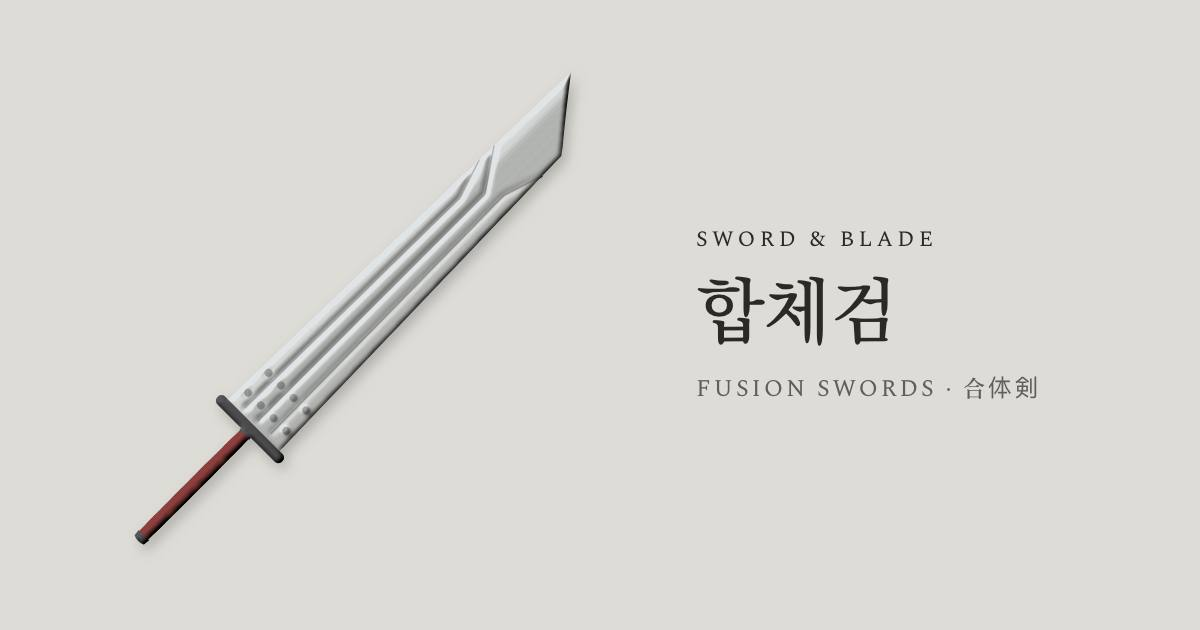
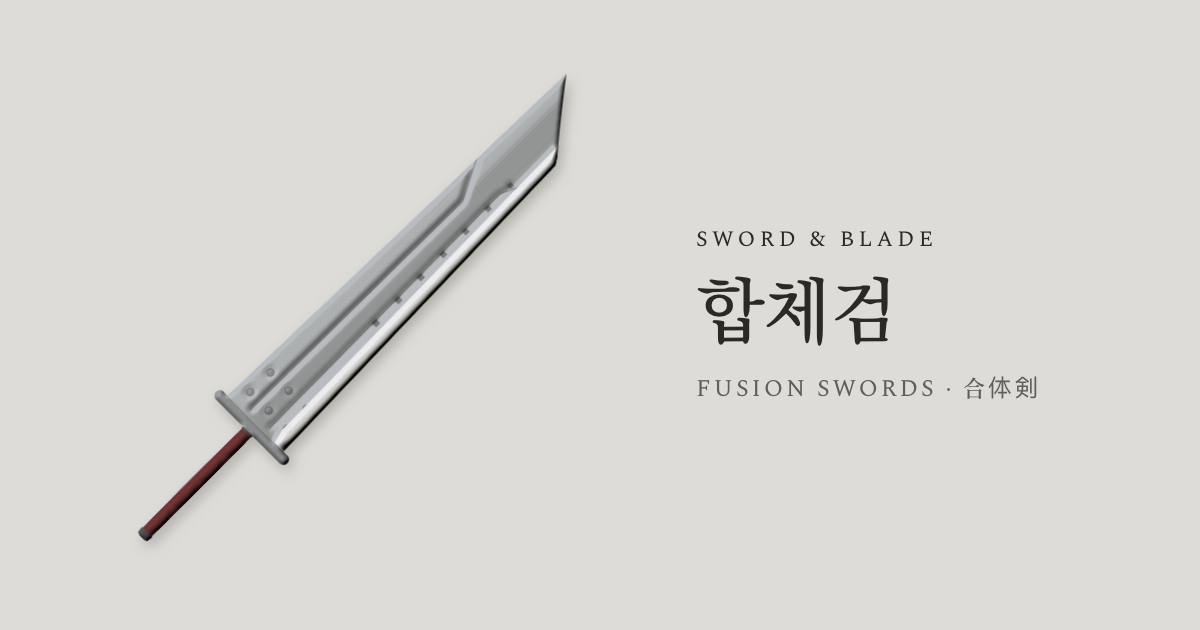
feat: 합체검을 구조도의 다 합친 모습대로, 렌더러 날 띠·이음매 홈 1.11.0 (#53)
할로우 블레이드의 밝은 날 띠, 백 블레이드 이음매의 네모 홈, 사이드 블레이드 판의
이음선·볼트, 볼트 박은 네모 코등이. 렌더러 edgeBand·notches. 시드 버전 19.

diff --git a/packages/sword-art/src/SwordRelief.tsx b/packages/sword-art/src/SwordRelief.tsx
@@ -280,6 +280,8 @@ function Blade({
         {blade.segments ? <Segments art={art} layer={layer} /> : null}
         {blade.links ? <Links art={art} layer={layer} /> : null}
         {blade.holes ? <Holes art={art} layer={layer} /> : null}
+        {blade.edgeBand ? <EdgeBand art={art} layer={layer} /> : null}
+        {blade.notches ? <Notches art={art} layer={layer} /> : null}
 
         {blade.inscription === 'stars' ? <Stars art={art} layer={layer} /> : null}
         {blade.inscription === 'runes' ? <Runes art={art} layer={layer} /> : null}
@@ -459,6 +461,39 @@ const EMBLEMS: Record<NonNullable<NonNullable<SwordArt['blade']['medallion']>['e
   cross: 'M-0.18 -0.85 H0.18 V-0.18 H0.85 V0.18 H0.18 V0.85 H-0.18 V0.18 H-0.85 V-0.18 H-0.18 Z',
   star: 'M0 -0.9 L0.21 -0.29 L0.86 -0.28 L0.34 0.11 L0.53 0.73 L0 0.36 L-0.53 0.73 L-0.34 0.11 L-0.86 -0.28 L-0.21 -0.29 Z',
 };
+
+/** 날 띠: 날 쪽 가장자리를 따라 밝은 띠를 덧댑니다. 칼날 외곽선으로 잘리므로 칼끝 모양을 그대로 따릅니다. */
+function EdgeBand({ art, layer }: { art: SwordArt; layer: Layer }) {
+  const band = art.blade.edgeBand;
+  if (!band) return null;
+  const width = Math.min(0.5, Math.max(0.05, band.width));
+  return (
+    <path
+      d={pointsToPath(bladeStrip(art, 0, 1, 1 - width / 2, width))}
+      fill={layer === 'height' ? H.top : band.color}
+      fillOpacity={layer === 'height' ? 1 : 0.9}
+    />
+  );
+}
+
+/** 이음매 홈: 칼날 판 이음매를 따라 밑동 3할부터 8할 앞까지 네모 홈을 고르게 팝니다. */
+function Notches({ art, layer }: { art: SwordArt; layer: Layer }) {
+  const notches = art.blade.notches;
+  if (!notches) return null;
+  const count = Math.min(12, Math.max(1, Math.round(notches.count)));
+  const at = Math.min(1, Math.max(0, notches.at ?? 0.72));
+  const end = Math.min(0.78, bladeTipStart(art) - 0.04);
+  return (
+    <g fill={layer === 'height' ? H.low : '#00000070'}>
+      {Array.from({ length: count }, (_, index) => {
+        const t = 0.3 + ((end - 0.3) * (index + 0.5)) / count;
+        const p = bladePoint(art, t, at);
+        const size = bladeWidthAt(art, t) * 0.085;
+        return <rect key={index} x={p.x - size / 2} y={p.y - size / 2} width={size} height={size} />;
+      })}
+    </g>
+  );
+}
 
 /** 열쇠 이빨: 큰 칼날과 같은 칠로, 칼끝 날 쪽에 붙입니다. */
 function KeyBit({ art, fill, opacity }: { art: SwordArt; fill: string; opacity: number }) {

diff --git a/packages/mocks/src/catalog/fiction.ts b/packages/mocks/src/catalog/fiction.ts
@@ -49,8 +49,8 @@ export const FICTION_ENTRIES: CatalogEntry[] = [
       'Cloud’s greatsword made of six blades that lock together into one.',
     ],
     description: [
-      '메인 블레이드에 할로우 블레이드, 백 블레이드 두 자루, 사이드 블레이드 두 자루를 맞물린 최종 형태를 칼날 판의 이음선과 볼트로 새기고, 메인 블레이드의 붉은 긴 손잡이와 큰 코등이를 달았습니다. 실제로 나뉘지는 않습니다.',
-      'The final form—the main blade locked together with the hollow blade, two back blades and two side blades—is carved as plate seams and bolts, with the main blade’s long red grip and large guard. It does not actually come apart.',
+      '문서 구조도의 다 합친 모습(1+2+3·4+5·6번 검)대로, 칼끝을 비스듬히 자른 넓은 사다리꼴 칼날에 할로우 블레이드의 밝은 날 띠, 백 블레이드 이음매의 네모 홈, 사이드 블레이드 판의 이음선과 볼트를 새기고, 볼트 박은 네모 코등이와 메인 블레이드의 붉은 긴 손잡이를 달았습니다. 실제로 나뉘지는 않습니다.',
+      'Following the fully assembled form in the structure diagram (blades 1+2+3·4+5·6): a broad trapezoid blade with an angled tip, carrying the hollow blade’s bright edge band, square notches along the back blades’ seam and the side blades’ plate seams and bolts, with a bolted rectangular guard and the main blade’s long red grip. It does not actually come apart.',
     ],
     story: [
       '제작',
@@ -70,9 +70,19 @@ export const FICTION_ENTRIES: CatalogEntry[] = [
     specs: [1300, 1760, 5200],
     price: 9_500_000,
     art: {
-      blade: { length: 1300, width: 200, curve: 0, edge: 'single', tip: 'angled', segments: 4 },
-      guard: { type: 'block', width: 250, color: '#3a3a40' },
-      grip: { length: 400, color: '#7a1f1f', wrap: 'ribbed' },
+      blade: {
+        length: 1300,
+        width: 220,
+        curve: 0,
+        edge: 'single',
+        tip: 'angled',
+        segments: 3,
+        color: '#a4a8ae',
+        edgeBand: { width: 0.2, color: '#eef0f2' },
+        notches: { count: 7, at: 0.7 },
+      },
+      guard: { type: 'block', width: 280, color: '#8a8e94' },
+      grip: { length: 400, color: '#5a1414', wrap: 'ribbed' },
       pommel: { type: 'cap', color: '#3a3a40' },
     },
   }),

diff --git a/packages/sword-art/src/SwordRelief.test.tsx b/packages/sword-art/src/SwordRelief.test.tsx
@@ -147,6 +147,17 @@ describe('SwordRelief 칼날 장식', () => {
     expect(localBounds(art({ keyBit: true })).maxX).toBeGreaterThan(localBounds(art({})).maxX + 40);
   });
 
+  it('날 띠(edgeBand)와 이음매 홈(notches)은 칼날 외곽선 안에 두 층으로 그린다', () => {
+    const plain = draw({});
+    const banded = draw({ edgeBand: { width: 0.2, color: '#eef0f2' } });
+    expect(count(banded, 'path') - count(plain, 'path')).toBe(2);
+    expect(banded).toContain('fill="#eef0f2"');
+    const notched = draw({ notches: { count: 6 } });
+    expect(count(notched, 'rect') - count(plain, 'rect')).toBe(2 * 6);
+    expect(draw({ notches: { count: 99 } })).toBe(draw({ notches: { count: 12 } }));
+    expect(notched).not.toMatch(BROKEN);
+  });
+
   it('칼날 메달리온은 두 층에 원 네 개씩을 그리고, 위치와 크기를 칼날 안쪽으로 맞춘다', () => {
     const plain = draw({});
     const medal = draw({ medallion: { at: 0.5, size: 0.6, color: '#e8b830' } });

diff --git a/packages/domain/src/types.ts b/packages/domain/src/types.ts
@@ -115,6 +115,10 @@ export interface SwordArt {
     twin?: { width: number; gap: number; length?: number };
     /** 열쇠 이빨(키블레이드): 칼끝 날 쪽에 홈이 셋 진 열쇠 이빨을 붙입니다. 칼날 너비의 1.8배만큼 날 쪽으로 나옵니다. */
     keyBit?: boolean;
+    /** 날을 따라 덧댄 밝은 띠(합체검의 할로우 블레이드 날). width는 칼날 너비에 대한 비율(0.05~0.5)입니다. */
+    edgeBand?: { width: number; color: string };
+    /** 칼날 판 이음매를 따라 판 네모 홈(합체검의 백 블레이드). count는 1~12, at은 너비 방향 위치(0 등 ~ 1 날, 기본 0.72)입니다. */
+    notches?: { count: number; at?: number };
   };
   collar?: { color: string };
   guard: {

diff --git a/packages/mocks/src/seed.ts b/packages/mocks/src/seed.ts
@@ -504,7 +504,7 @@ const SWORDS_KO: Sword[] = [
  * 시드 내용(그림·설명·번역·도검 목록)이 바뀔 때마다 올립니다.
  * 브라우저에 저장된 Mock 데이터가 이 값보다 낮으면 db.ts의 migrateSeed가 새 시드에 맞춥니다.
  */
-export const SEED_VERSION = 18;
+export const SEED_VERSION = 19;
 
 /** 영어 번역을 붙인 시드 도검 */
 export const SEED_SWORDS: Sword[] = [

diff --git a/CHANGELOG.md b/CHANGELOG.md
@@ -1,5 +1,14 @@
 # 버전 기록
 
+## 1.11.0 - 2026-11-21
+
+합체검의 세부를 원작대로 맞춥니다(사용자 요청 "디테일 좀 잘 파악해서", "오른쪽 하단이 풀세팅이니까 그거 기준으로"). 나무위키 「합체검」 구조도의 다 합친 모습(1+2+3·4+5·6번 검)을 기준으로 했습니다.
+
+- 합체검: 칼끝을 비스듬히 자른 넓은 사다리꼴 칼날에 할로우 블레이드의 밝은 날 띠, 백 블레이드 이음매의 네모 홈, 사이드 블레이드 판의 이음선과 볼트, 볼트 박은 회색 네모 코등이, 메인 블레이드의 붉은 긴 손잡이(문서 글). 설명도 고침. 사이드 블레이드 손잡이를 접는 부채꼴 톱니 장치는 그리지 않음
+- 부조 렌더러: 날 띠(`blade.edgeBand`, 날 쪽 가장자리를 따라 밝은 띠), 이음매 홈(`blade.notches`, 판 이음매를 따라 네모 홈 1~12개)
+- 시드 버전 19, 공유 이미지 1장
+- 테스트: 날 띠와 이음매 홈
+
 ## 1.10.0 - 2026-11-21
 
 생김새를 확인하지 못해 미뤘던 「가공의 도검」 5점을 넣습니다(사용자 요청). 문서 그림을 받아 맞췄고, 그림이 없는 두 점은 문서 설정으로 그려 설명에 밝혔습니다. 도검 329점 → 334점, 게임·작품 속 검 88점.
